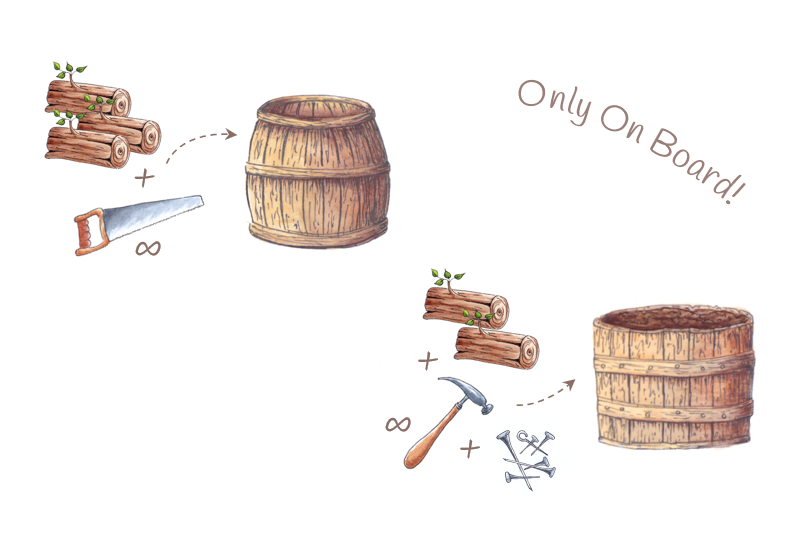
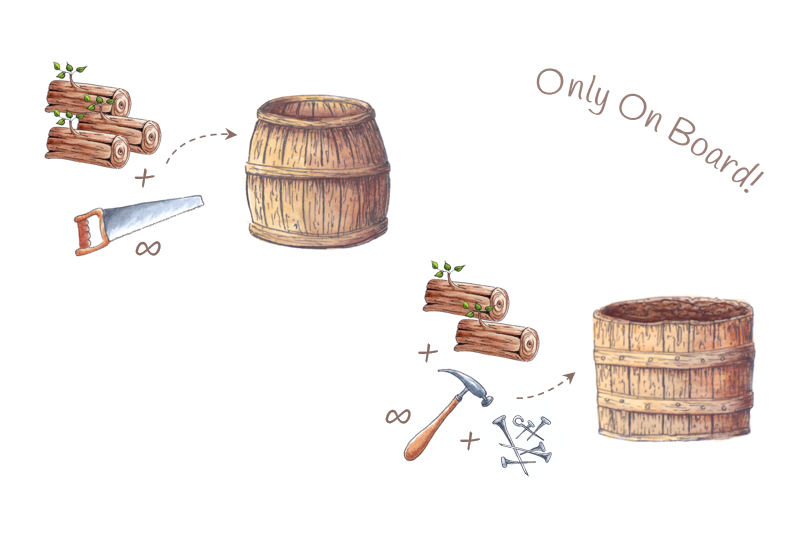
feat(crafting): add crafting options for rain collector and plant pot, enhance UI navigation

Changed region(s): [[0.6562, 0.5343, 0.9688, 0.8609], [0.4688, 0.475, 0.7188, 0.8905], [0.625, 0.1187, 0.9688, 0.3859]]

diff --git a/index.html b/index.html
@@ -418,7 +418,7 @@
         </div>
         <div id="craft">
           <div class="inner craft-1">
-            <div class="button-next"><span class="amount">0</span></div>
+            <div class="button-next" data-panel="craft-2"><span class="amount">0</span></div>
             <div class="button-craft" data-item="wooden-club" data-action="craft wooden club"><span class="material-symbols-outlined locked">lock</span>Craft</div>
             <div class="button-craft" data-item="improvised-axe" data-action="improvise an axe"><span class="material-symbols-outlined locked">lock</span>Craft</div>
             <div class="button-craft" data-item="fireplace" data-action="build a fireplace"><span class="material-symbols-outlined locked">lock</span>Build<span class="material-symbols-outlined stationary">vertical_align_bottom</span></div>
@@ -438,7 +438,8 @@
             <div class="nope glue c-tape"></div>
           </div>
           <div class="inner craft-2 is--hidden">
-            <div class="button-prev"><span class="amount">0</span></div>
+            <div class="button-prev" data-panel="craft-1"><span class="amount">0</span></div>
+            <div class="button-next" data-panel="craft-3"><span class="amount">0</span></div>
             <div class="button-craft" data-item="improvised-whip" data-action="improvise a whip"><span class="material-symbols-outlined locked">lock</span>Craft</div>
             <div class="button-craft" data-item="fishing-rod" data-action="craft a fishing rod"><span class="material-symbols-outlined locked">lock</span>Craft</div>
             <div class="button-craft" data-item="rope" data-action="make rope"><span class="material-symbols-outlined locked">lock</span>Make</div>
@@ -456,6 +457,20 @@
             <div class="nope rope c-barricades"></div>
             <div class="nope knife c-bone-hook"></div>
             <div class="nope bones c-bone-hook"></div>
+          </div>
+          <div class="inner craft-3 is--hidden">
+            <div class="button-prev" data-panel="craft-2"><span class="amount">0</span></div>
+            <div class="button-craft" data-item="plant-pot" data-action="craft a plant pot"><span
+                class="material-symbols-outlined locked">lock</span>Craft</div>
+            <div class="button-craft" data-item="rain-collector" data-action="craft a rain collector"><span
+                class="material-symbols-outlined locked">lock</span>Craft</div>
+            <div class="button-craft is--hidden" data-item="hammock" data-action="make a hammock"><span
+                class="material-symbols-outlined locked">lock</span>Make</div>
+            <div class="nope stump c-rain-collector"></div>
+            <div class="nope saw c-rain-collector"></div>
+            <div class="nope stump c-plant-pot"></div>
+            <div class="nope hammer c-plant-pot"></div>
+            <div class="nope nails c-plant-pot"></div>
           </div>
           <p class="info"></p>
         </div>

diff --git a/js/crafting.js b/js/crafting.js
@@ -94,13 +94,11 @@ export default {
         }
       }
     } else if (navButton && leftMouseButton) {
-      if (navButton.classList.contains('button-next')) {
-        craftContainer.querySelector('.inner.craft-1').classList.add('is--hidden');
-        craftContainer.querySelector('.inner.craft-2').classList.remove('is--hidden');
-      } else if (navButton.classList.contains('button-prev')) {
-        craftContainer.querySelector('.inner.craft-1').classList.remove('is--hidden');
-        craftContainer.querySelector('.inner.craft-2').classList.add('is--hidden');
-      }
+      const panel = navButton.dataset.panel;
+      craftContainer.querySelector('.inner.craft-1').classList.add('is--hidden');
+      craftContainer.querySelector('.inner.craft-2').classList.add('is--hidden');
+      craftContainer.querySelector('.inner.craft-3').classList.add('is--hidden');
+      craftContainer.querySelector('.inner.' + panel).classList.remove('is--hidden');
     }
   },
 

diff --git a/css/ui.css b/css/ui.css
@@ -189,7 +189,8 @@ ul#properties li.health.in-battle {
   transition: transform 0.3s ease-in-out;
 }
 #craft .inner.craft-1,
-#craft .inner.craft-2 {
+#craft .inner.craft-2,
+#craft .inner.craft-3 {
   position: absolute;
   left: 3%;
   width: 97%;
@@ -200,6 +201,9 @@ ul#properties li.health.in-battle {
 }
 #craft .inner.craft-2 {
   background: url(../img/ui/crafting-2.png) 0 0 no-repeat;
+}
+#craft .inner.craft-3 {
+  background: url(../img/ui/crafting-3.png) 0 0 no-repeat;
 }
 #craft .button-next,
 #craft .button-prev {
@@ -326,6 +330,14 @@ ul#properties li.health.in-battle {
 .button-craft[data-item='bone-hook'] {
   left: 595px;
   top: 395px;
+}
+.button-craft[data-item='rain-collector'] {
+  left: 216px;
+  top: 148px;
+}
+.button-craft[data-item='plant-pot'] {
+  left: 574px;
+  top: 350px;
 }
 
 #inventory .inner {

diff --git a/css/crafting.css b/css/crafting.css
@@ -117,3 +117,23 @@
   left: 700px;
   top: 280px;
 }
+.stump.c-rain-collector {
+  left: 80px;
+  top: 102px;
+}
+.saw.c-rain-collector {
+  left: 127px;
+  top: 196px;
+}
+.stump.c-plant-pot {
+  left: 461px;
+  top: 303px;
+}
+.hammer.c-plant-pot {
+  left: 427px;
+  top: 400px;
+}
+.nails.c-plant-pot {
+  left: 505px;
+  top: 425px;
+}
